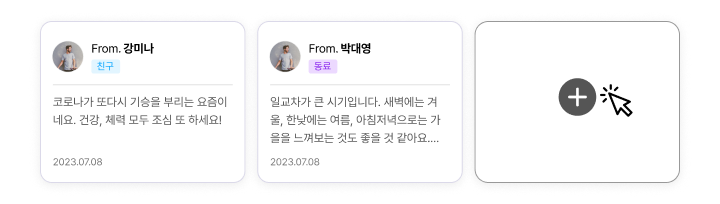
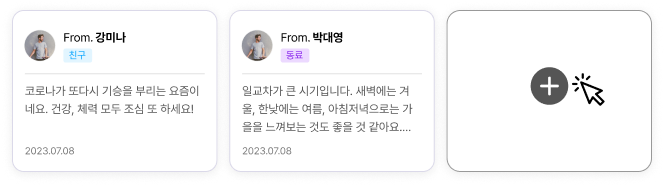
Feat:PointBox css수정

diff --git a/src/components/LandingPage/LandingDetail.jsx b/src/components/LandingPage/LandingDetail.jsx
@@ -1,41 +1,19 @@
-import LandingSection from './LandingSection';
-import { Card1, Card2, CardImg } from './Card';
-import IntroSection from './IntroSection';
-import PointBox from './PointBox';
-import Title from './Title';
-import SubTitle from './SubTitle';
-import StartButton from './StartButton';
-import cardImg1 from '../../assets/image/cardImg1.png';
-import cardImg2 from '../../assets/image/cardImg2.png';
+import React from 'react';
+import { useMediaQuery } from 'react-responsive';
+import MobileLandingDetail from './MobileLandingDetail';
+import TabletLandingDetail from './TabletLandingDetail';
+import DesktopLandingDetail from './DesktopLandingDetail';
 
 export default function LandingDetail() {
+  const isMobile = useMediaQuery({ maxWidth: 767 });
+  const isTablet = useMediaQuery({ minWidth: 768, maxWidth: 1023 });
+  const isDesktop = useMediaQuery({ minWidth: 1024 });
+
   return (
-    <LandingSection>
-      <Card1>
-        <IntroSection>
-          <PointBox>Point. 01</PointBox>
-          <Title>
-            누구나 손쉽게, 온라인
-            <br />
-            롤링 페이퍼를 만들 수 있어요
-          </Title>
-          <SubTitle>로그인 없이 자유롭게 만들어요.</SubTitle>
-        </IntroSection>
-        <CardImg style={{ backgroundImage: `url(${cardImg1})` }} />
-      </Card1>
-      <Card2>
-        <CardImg style={{ backgroundImage: `url(${cardImg2})` }} />
-        <IntroSection>
-          <PointBox>Point. 02</PointBox>
-          <Title>
-            서로에게 이모지로 감정을
-            <br />
-            표현해보세요
-          </Title>
-          <SubTitle>롤링 페이퍼에 이모지를 추가할 수 있어요.</SubTitle>
-        </IntroSection>
-      </Card2>
-      <StartButton to='/list'>구경해보기</StartButton>
-    </LandingSection>
+    <>
+      {isMobile && <MobileLandingDetail />}
+      {isTablet && <TabletLandingDetail />}
+      {isDesktop && <DesktopLandingDetail />}
+    </>
   );
 }

diff --git a/src/components/LandingPage/DesktopLandingDetail.jsx b/src/components/LandingPage/DesktopLandingDetail.jsx
@@ -1,0 +1,42 @@
+import React from 'react';
+import LandingSection from './LandingSection';
+import { Card1, Card2, CardImg } from './Card';
+import IntroSection from './IntroSection';
+import PointBox from './PointBox';
+import Title from './Title';
+import SubTitle from './SubTitle';
+import StartButton from './StartButton';
+import cardImg1 from '../../assets/image/cardImg1.png';
+import cardImg2 from '../../assets/image/cardImg2.png';
+
+export default function DesktopLandingDetail() {
+  return (
+    <LandingSection>
+      <Card1>
+        <IntroSection>
+          <PointBox>Point. 01</PointBox>
+          <Title>
+            누구나 손쉽게, 온라인
+            <br />
+            롤링 페이퍼를 만들 수 있어요
+          </Title>
+          <SubTitle>로그인 없이 자유롭게 만들어요.</SubTitle>
+        </IntroSection>
+        <CardImg style={{ backgroundImage: `url(${cardImg1})` }} />
+      </Card1>
+      <Card2>
+        <CardImg style={{ backgroundImage: `url(${cardImg2})` }} />
+        <IntroSection>
+          <PointBox>Point. 02</PointBox>
+          <Title>
+            서로에게 이모지로 감정을
+            <br />
+            표현해보세요
+          </Title>
+          <SubTitle>롤링 페이퍼에 이모지를 추가할 수 있어요.</SubTitle>
+        </IntroSection>
+      </Card2>
+      <StartButton to='/list'>구경해보기</StartButton>
+    </LandingSection>
+  );
+}

diff --git a/src/components/LandingPage/MobileLandingDetail.jsx b/src/components/LandingPage/MobileLandingDetail.jsx
@@ -1,0 +1,37 @@
+import React from 'react';
+import LandingSection from './LandingSection';
+import { Card1, Card2, CardImg } from './Card';
+import IntroSection from './IntroSection';
+import PointBox from './PointBox';
+import Title from './Title';
+import SubTitle from './SubTitle';
+import StartButton from './StartButton';
+import cardImg1 from '../../assets/image/cardImg1.png';
+import cardImg2 from '../../assets/image/cardImg2.png';
+
+export default function MobileLandingDetail() {
+  return (
+    <LandingSection>
+      <Card1>
+        <IntroSection>
+          <PointBox>Point. 01</PointBox>
+          <Title>
+            누구나 손쉽게, <br />
+            온라인 롤링 페이퍼를 만들 수 있어요
+          </Title>
+          <SubTitle>로그인 없이 자유롭게 만들어요.</SubTitle>
+        </IntroSection>
+        <CardImg style={{ backgroundImage: `url(${cardImg1})` }} />
+      </Card1>
+      <Card2>
+        <CardImg style={{ backgroundImage: `url(${cardImg2})` }} />
+        <IntroSection>
+          <PointBox>Point. 02</PointBox>
+          <Title>서로에게 이모지로 감정을 표현해보세요</Title>
+          <SubTitle>롤링 페이퍼에 이모지를 추가할 수 있어요.</SubTitle>
+        </IntroSection>
+      </Card2>
+      <StartButton to='/list'>구경해보기</StartButton>
+    </LandingSection>
+  );
+}

diff --git a/src/components/LandingPage/TabletLandingDetail.jsx b/src/components/LandingPage/TabletLandingDetail.jsx
@@ -1,0 +1,34 @@
+import React from 'react';
+import { Card1, Card2, CardImg } from './Card';
+import IntroSection from './IntroSection';
+import PointBox from './PointBox';
+import Title from './Title';
+import SubTitle from './SubTitle';
+import StartButton from './StartButton';
+import cardImg1 from '../../assets/image/cardImg1.png';
+import cardImg2 from '../../assets/image/cardImg2.png';
+import LandingSection from './LandingSection';
+
+export default function TabletLandingDetail() {
+  return (
+    <LandingSection>
+      <Card1>
+        <IntroSection>
+          <PointBox>Point. 01</PointBox>
+          <Title>누구나 손쉽게, 온라인 롤링 페이퍼를 만들 수 있어요</Title>
+          <SubTitle>로그인 없이 자유롭게 만들어요.</SubTitle>
+        </IntroSection>
+        <CardImg style={{ backgroundImage: `url(${cardImg1})` }} />
+      </Card1>
+      <Card2>
+        <CardImg style={{ backgroundImage: `url(${cardImg2})` }} />
+        <IntroSection>
+          <PointBox>Point. 02</PointBox>
+          <Title>서로에게 이모지로 감정을 표현해보세요</Title>
+          <SubTitle>롤링 페이퍼에 이모지를 추가할 수 있어요.</SubTitle>
+        </IntroSection>
+      </Card2>
+      <StartButton to='/list'>구경해보기</StartButton>
+    </LandingSection>
+  );
+}

diff --git a/src/components/LandingPage/Card.jsx b/src/components/LandingPage/Card.jsx
@@ -6,28 +6,37 @@ const CardBase = styled.div`
   border-radius: 16px;
   display: flex;
   flex-direction: row;
+  align-items: center;
   justify-content: space-between;
   background-color: var(--surface);
+
+  @media (min-width: 769px) and (max-width: 1023px) {
+    height: 440px;
+    flex-direction: column;
+  }
+  @media (max-width: 768px) {
+    height: 362px;
+  }
 `;
 
 const Card1 = styled(CardBase)`
-  align-items: flex-start;
+  justify-content: space-between;
   margin-top: 125px;
   margin-bottom: 30px;
-  padding: 60px 0px 60px 60px;
+  padding: 60px 40px 60px 60px;
 `;
 
 const Card2 = styled(CardBase)`
-  align-items: center;
-  padding: 60px 192px 60px 0px;
+  justify-content: flex-start;
+  padding: 60px 60px 60px 0px;
   margin-bottom: 48px;
 `;
 
 const CardImg = styled.div`
   background-size: cover;
   background-position: center;
-  width: 720px;
-  height: 204px;
+  width: 640px;
+  height: 162px;
 `;
 
 export { Card1, Card2, CardImg };

diff --git a/src/components/LandingPage/Title.jsx b/src/components/LandingPage/Title.jsx
@@ -1,13 +1,14 @@
 import styled from 'styled-components';
 
 const Title = styled.h2`
-  margin-top: 16px;
+  padding: 0px;
   margin-bottom: 8px;
   font-weight: 700;
   font-size: 24px;
   line-height: 36px;
   letter-spacing: -0.01em;
   color: var(--gray900);
+  white-space: nowrap;
 `;
 
 export default Title;

diff --git a/src/components/LandingPage/LandingSection.jsx b/src/components/LandingPage/LandingSection.jsx
@@ -5,6 +5,14 @@ const LandingSection = styled(Section)`
   display: flex;
   flex-direction: column;
   align-items: center;
+
+  @media (max-width: 1248px) {
+    padding: 0 24px;
+  }
+
+  @media (max-width: 360px) {
+    padding: 0 20px;
+  }
 `;
 
 export default LandingSection;

diff --git a/src/components/LandingPage/IntroSection.jsx b/src/components/LandingPage/IntroSection.jsx
@@ -3,6 +3,7 @@ import styled from 'styled-components';
 const IntroSection = styled.div`
   display: flex;
   flex-direction: column;
+  position: relative;
 `;
 
 export default IntroSection;

diff --git a/src/components/LandingPage/PointBox.jsx b/src/components/LandingPage/PointBox.jsx
@@ -14,6 +14,8 @@ const PointBox = styled.div`
   font-weight: 700;
   letter-spacing: -0.005em;
   line-height: 20px;
+  position: absolute;
+  top: -48px;
 `;
 
 export default PointBox;
